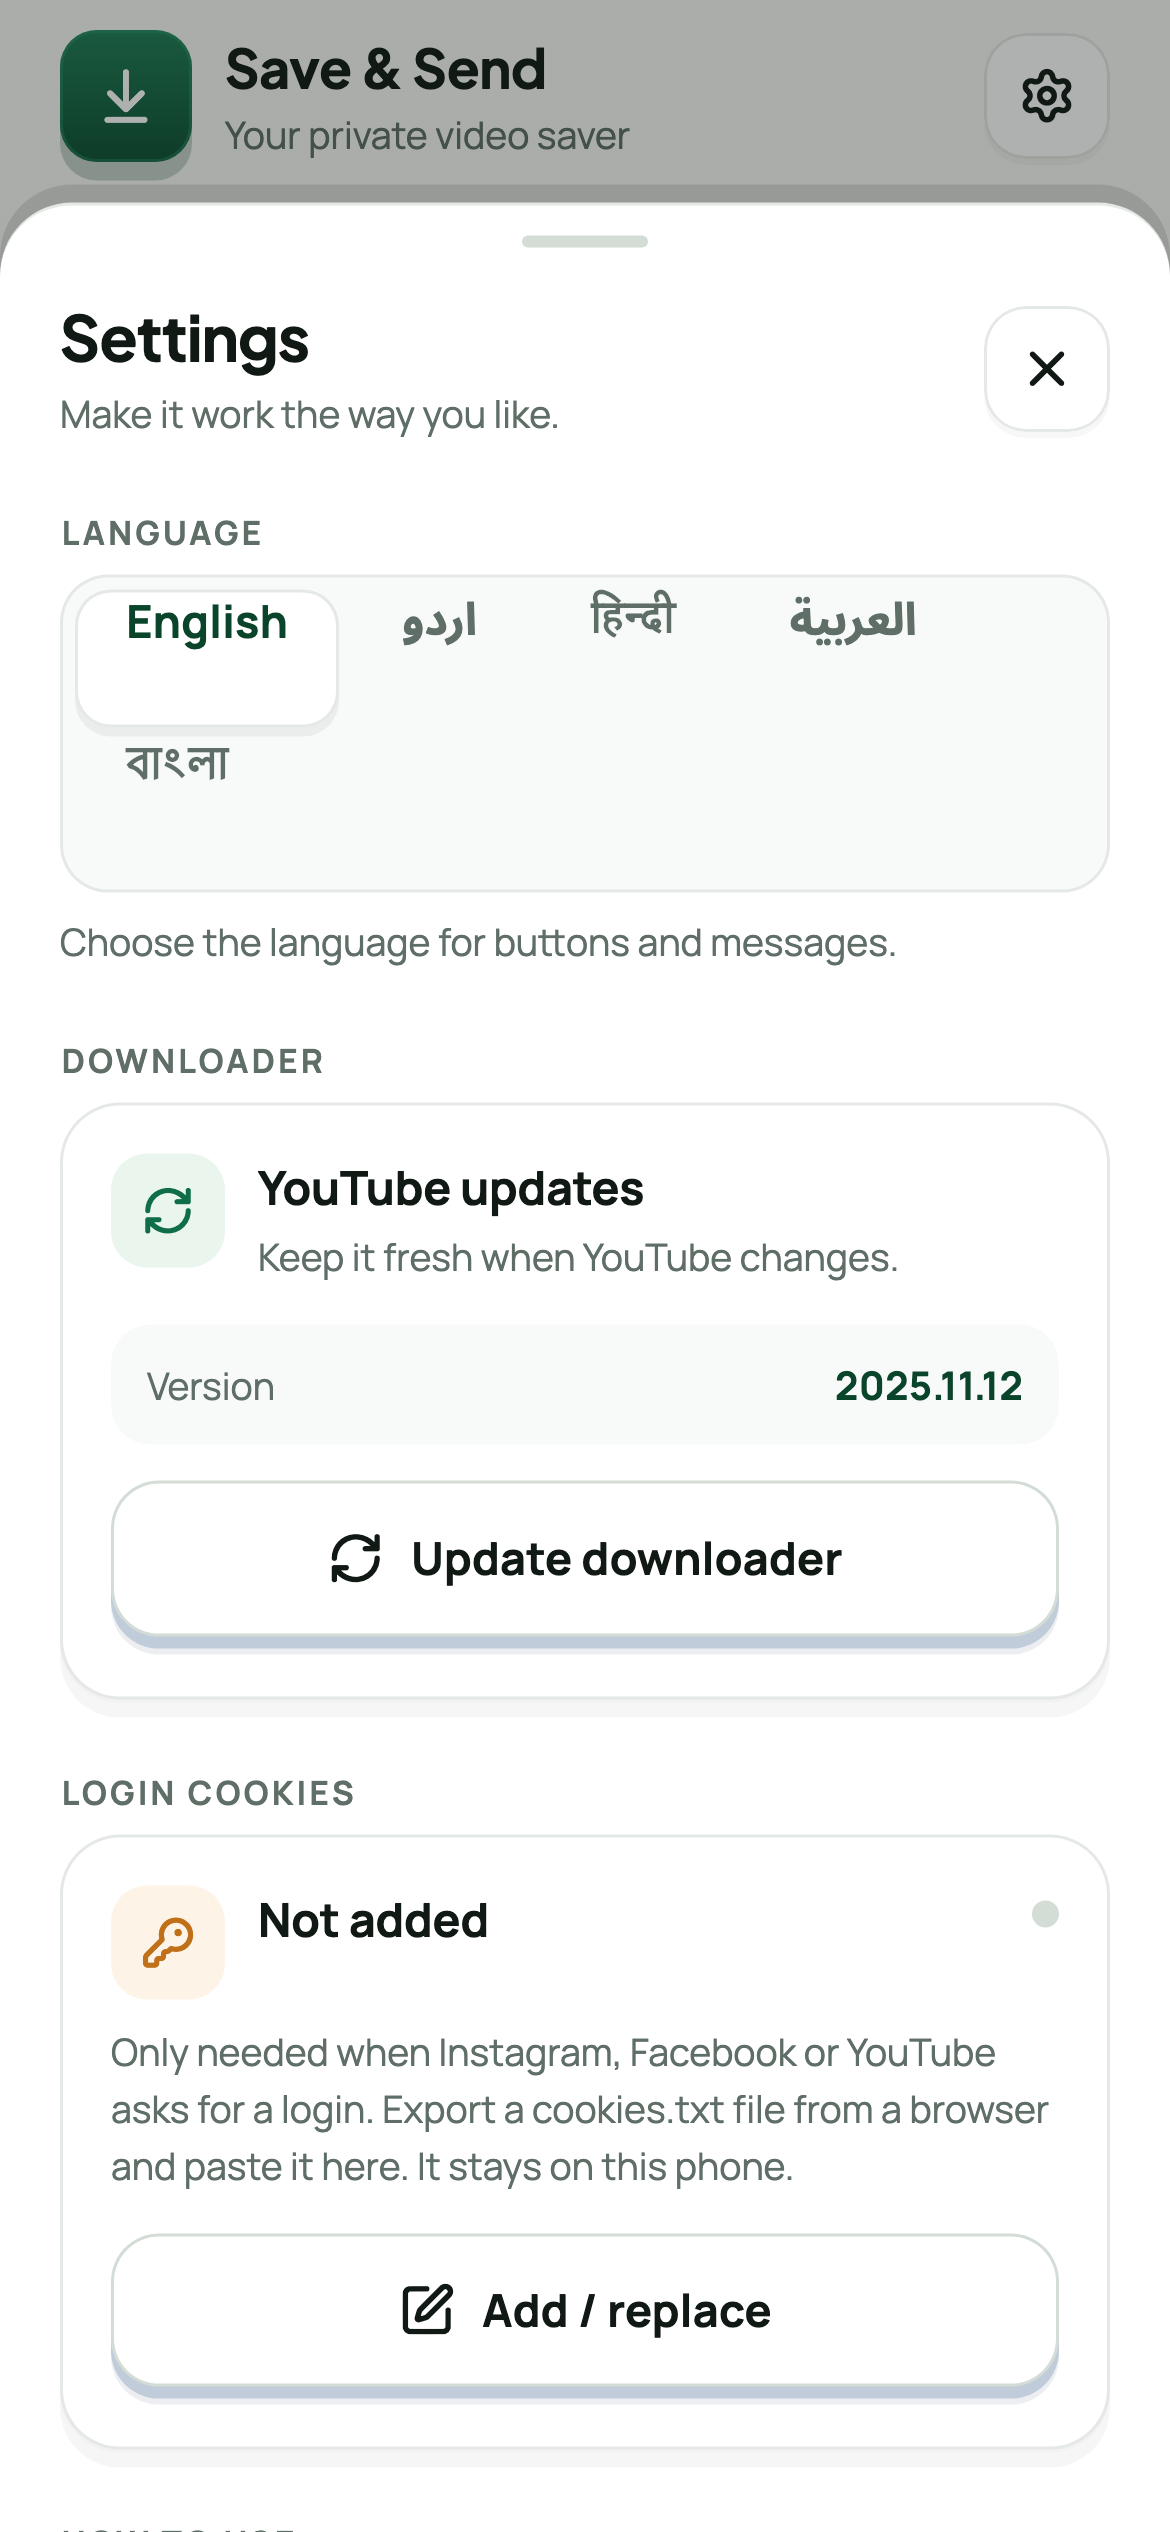
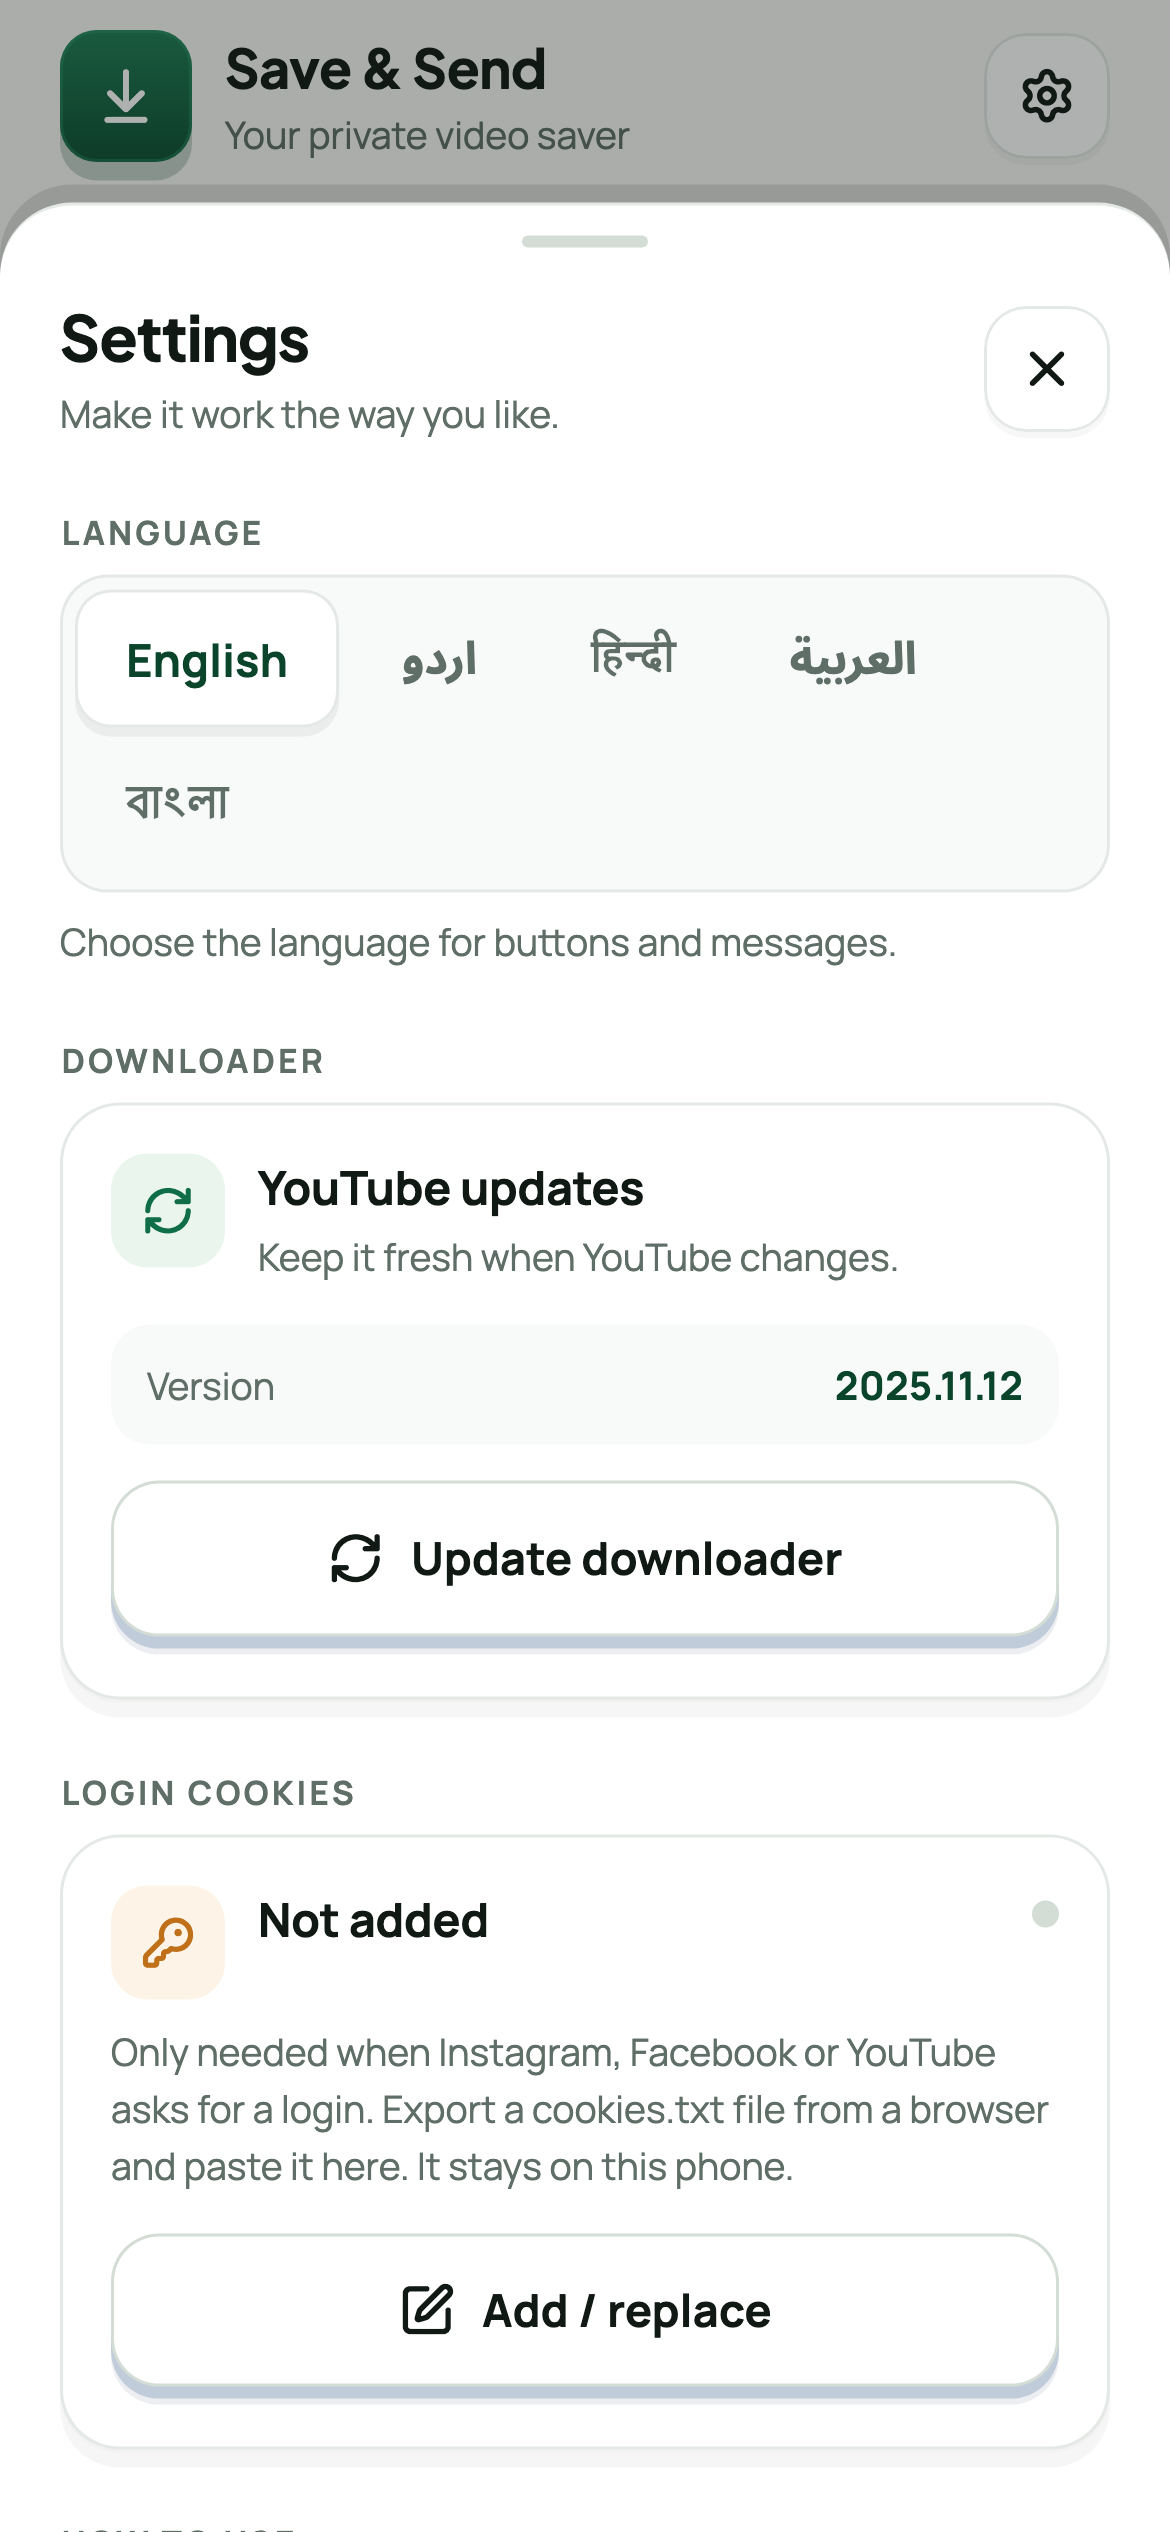
fix: centre the selected language chip and stop RTL rows overflowing
The chip used a fixed 46 px height without centring its label, so the
selected language sat visibly higher than the others.

The same pass adds a narrow-screen settings test for all five languages,
which caught two more real overflows at 320 px with 1.3x text in Arabic:
the engine version row and the version footnote. Both now flex instead of
forcing their natural width.

diff --git a/lib/src/settings_sheet.dart b/lib/src/settings_sheet.dart
@@ -250,12 +250,15 @@ class _SettingsSheetState extends State<SettingsSheet> {
                         ),
                         child: Row(
                           children: [
-                            Text(
-                              s.version,
-                              style: theme.textTheme.bodySmall
-                                  ?.copyWith(color: kMuted),
+                            Expanded(
+                              child: Text(
+                                s.version,
+                                overflow: TextOverflow.ellipsis,
+                                style: theme.textTheme.bodySmall
+                                    ?.copyWith(color: kMuted),
+                              ),
                             ),
-                            const Spacer(),
+                            const SizedBox(width: 8),
                             Text(
                               _loading ? '…' : (_version ?? '—'),
                               style: theme.textTheme.labelMedium?.copyWith(
@@ -378,11 +381,13 @@ class _SettingsSheetState extends State<SettingsSheet> {
                   children: [
                     const BrandMark(size: 22),
                     const SizedBox(width: 7),
-                    Text(
-                      '${s.personalNote}  •  v$kAppVersion',
-                      style: theme.textTheme.labelSmall?.copyWith(
-                        color: kMuted,
-                        letterSpacing: 0.15,
+                    Flexible(
+                      child: Text(
+                        '${s.personalNote}  •  v$kAppVersion',
+                        style: theme.textTheme.labelSmall?.copyWith(
+                          color: kMuted,
+                          letterSpacing: 0.15,
+                        ),
                       ),
                     ),
                   ],
@@ -498,12 +503,18 @@ class _LanguageOption extends StatelessWidget {
                   ]
                 : null,
           ),
-          child: Text(
-            label,
-            style: Theme.of(context).textTheme.labelLarge?.copyWith(
-                  color: selected ? kDeepGreen : kMuted,
-                  fontWeight: FontWeight.w700,
-                ),
+          // `Align` with `widthFactor: 1` centres the label inside the 46 px
+          // chip without making the chip grow to the full row width.
+          child: Align(
+            alignment: Alignment.center,
+            widthFactor: 1,
+            child: Text(
+              label,
+              style: Theme.of(context).textTheme.labelLarge?.copyWith(
+                    color: selected ? kDeepGreen : kMuted,
+                    fontWeight: FontWeight.w700,
+                  ),
+            ),
           ),
         ),
       ),

diff --git a/test/app_test.dart b/test/app_test.dart
@@ -3,6 +3,7 @@ import 'package:flutter/services.dart';
 import 'package:flutter_test/flutter_test.dart';
 import 'package:lucide_icons_lite/lucide_icons_lite.dart';
 import 'package:save_and_send/src/app.dart';
+import 'package:save_and_send/src/i18n.dart';
 
 const _methodChannelName = 'com.personal.save_and_send/native';
 const _eventChannelName = 'com.personal.save_and_send/events';
@@ -250,6 +251,28 @@ void main() {
     await tester.pumpAndSettle();
     expect(find.text('LOGIN COOKIES'), findsNothing);
   });
+
+  // The picker wraps onto a second row and the sheet holds long rows, so the
+  // tight case is every language on a small screen with large text.
+  for (final language in AppLanguage.all) {
+    testWidgets('settings fits a narrow ${language.code} screen', (tester) async {
+      _setPhone(tester, width: 320, height: 640, textScale: 1.3);
+      await tester.pumpWidget(SaveAndSendApp(initialLanguage: language.code));
+      await tester.pumpAndSettle();
+
+      await tester.tap(find.byIcon(LucideIcons.settings));
+      await tester.pumpAndSettle();
+
+      for (final option in AppLanguage.all) {
+        expect(
+          find.text(option.label),
+          findsOneWidget,
+          reason: 'missing ${option.label}',
+        );
+      }
+      expect(tester.takeException(), isNull);
+    });
+  }
 }
 
 void _setPhone(

diff --git a/lib/src/version.dart b/lib/src/version.dart
@@ -1,2 +1,2 @@
 /// Shown in the settings footer. Keep in sync with `version:` in pubspec.yaml.
-const String kAppVersion = '1.1.0';
+const String kAppVersion = '1.1.1';

diff --git a/README.md b/README.md
@@ -53,7 +53,7 @@ download engine runs entirely on the phone.
 | | |
 | --- | --- |
 | **Package** | `com.personal.save_and_send` |
-| **Version** | 1.1.0 (3) |
+| **Version** | 1.1.1 (4) |
 | **Devices** | Android 7.0+ (API 24), `arm64-v8a` |
 | **Output** | MP4 / H.264 / AAC-LC, ≤ 1920 px long edge, ≤ 59.5 s |
 | **Interface** | English, Urdu, Hindi, Arabic, Bengali · Material 3 · RTL-aware |
@@ -179,7 +179,7 @@ streams are not supported and are reported as errors.
 ## Install
 
 1. Open the [latest release](https://github.com/AdilSiddiquiHQ/save-and-send/releases/latest)
-   and download `SaveAndSend-v1.1.0-arm64.apk`.
+   and download `SaveAndSend-v1.1.1-arm64.apk`.
 2. Optionally verify the SHA-256 checksum published with the release.
 3. Allow your browser or file manager to install unknown apps, then open the
    APK.
@@ -213,7 +213,7 @@ Copy it to a predictable name before sharing:
 
 ```bash
 cp build/app/outputs/flutter-apk/app-release.apk \
-   SaveAndSend-v1.1.0-arm64.apk
+   SaveAndSend-v1.1.1-arm64.apk
 ```
 
 The repository deliberately keeps only `arm64-v8a`. The Python and FFmpeg

diff --git a/docs/RELEASE_NOTES_v1.1.1.md b/docs/RELEASE_NOTES_v1.1.1.md
@@ -1,0 +1,28 @@
+A one-line fix on top of 1.1.0: the selected language chip in Settings drew its
+label at the top of the chip instead of centring it, so "English" sat visibly
+higher than اردو, हिन्दी, العربية, and বাংলা beside it.
+
+Nothing else changed. The download pipeline, the translations, and the layouts
+are identical to 1.1.0.
+
+## Install
+
+1. Download `SaveAndSend-v1.1.1-arm64.apk`.
+2. Optionally verify the SHA-256 checksum.
+3. Install over 1.1.0. If you installed an older build signed with a different
+   key, uninstall it first.
+
+## Release integrity
+
+| | |
+| --- | --- |
+| APK | `SaveAndSend-v1.1.1-arm64.apk` |
[1 lines of base64/hex data omitted]
+| Signing certificate SHA-256 | `F7:DB:E1:CD:37:9F:83:AA:78:05:C8:6E:1C:6B:B7:F4:8D:C0:43:CF:9B:F3:A5:30:C8:EB:B2:8A:8A:61:F1:82` |
+| Version | 1.1.1 (4) |
+| Min SDK | 24 |
+| ABI | `arm64-v8a` |
+
+## Full changelog
+
+[CHANGELOG.md](https://github.com/AdilSiddiquiHQ/save-and-send/blob/main/CHANGELOG.md)

diff --git a/CHANGELOG.md b/CHANGELOG.md
@@ -6,6 +6,14 @@ All notable changes to Save & Send are documented here. The format follows
 
 ## [Unreleased]
 
+## [1.1.1] — 2026-10-28
+
+### Fixed
+
+- The selected language chip in Settings drew its label at the top of the chip
+  instead of centring it, which made "English" sit visibly higher than the rest
+  of the row.
+
 ## [1.1.0] — 2026-10-28
 
 ### Added
